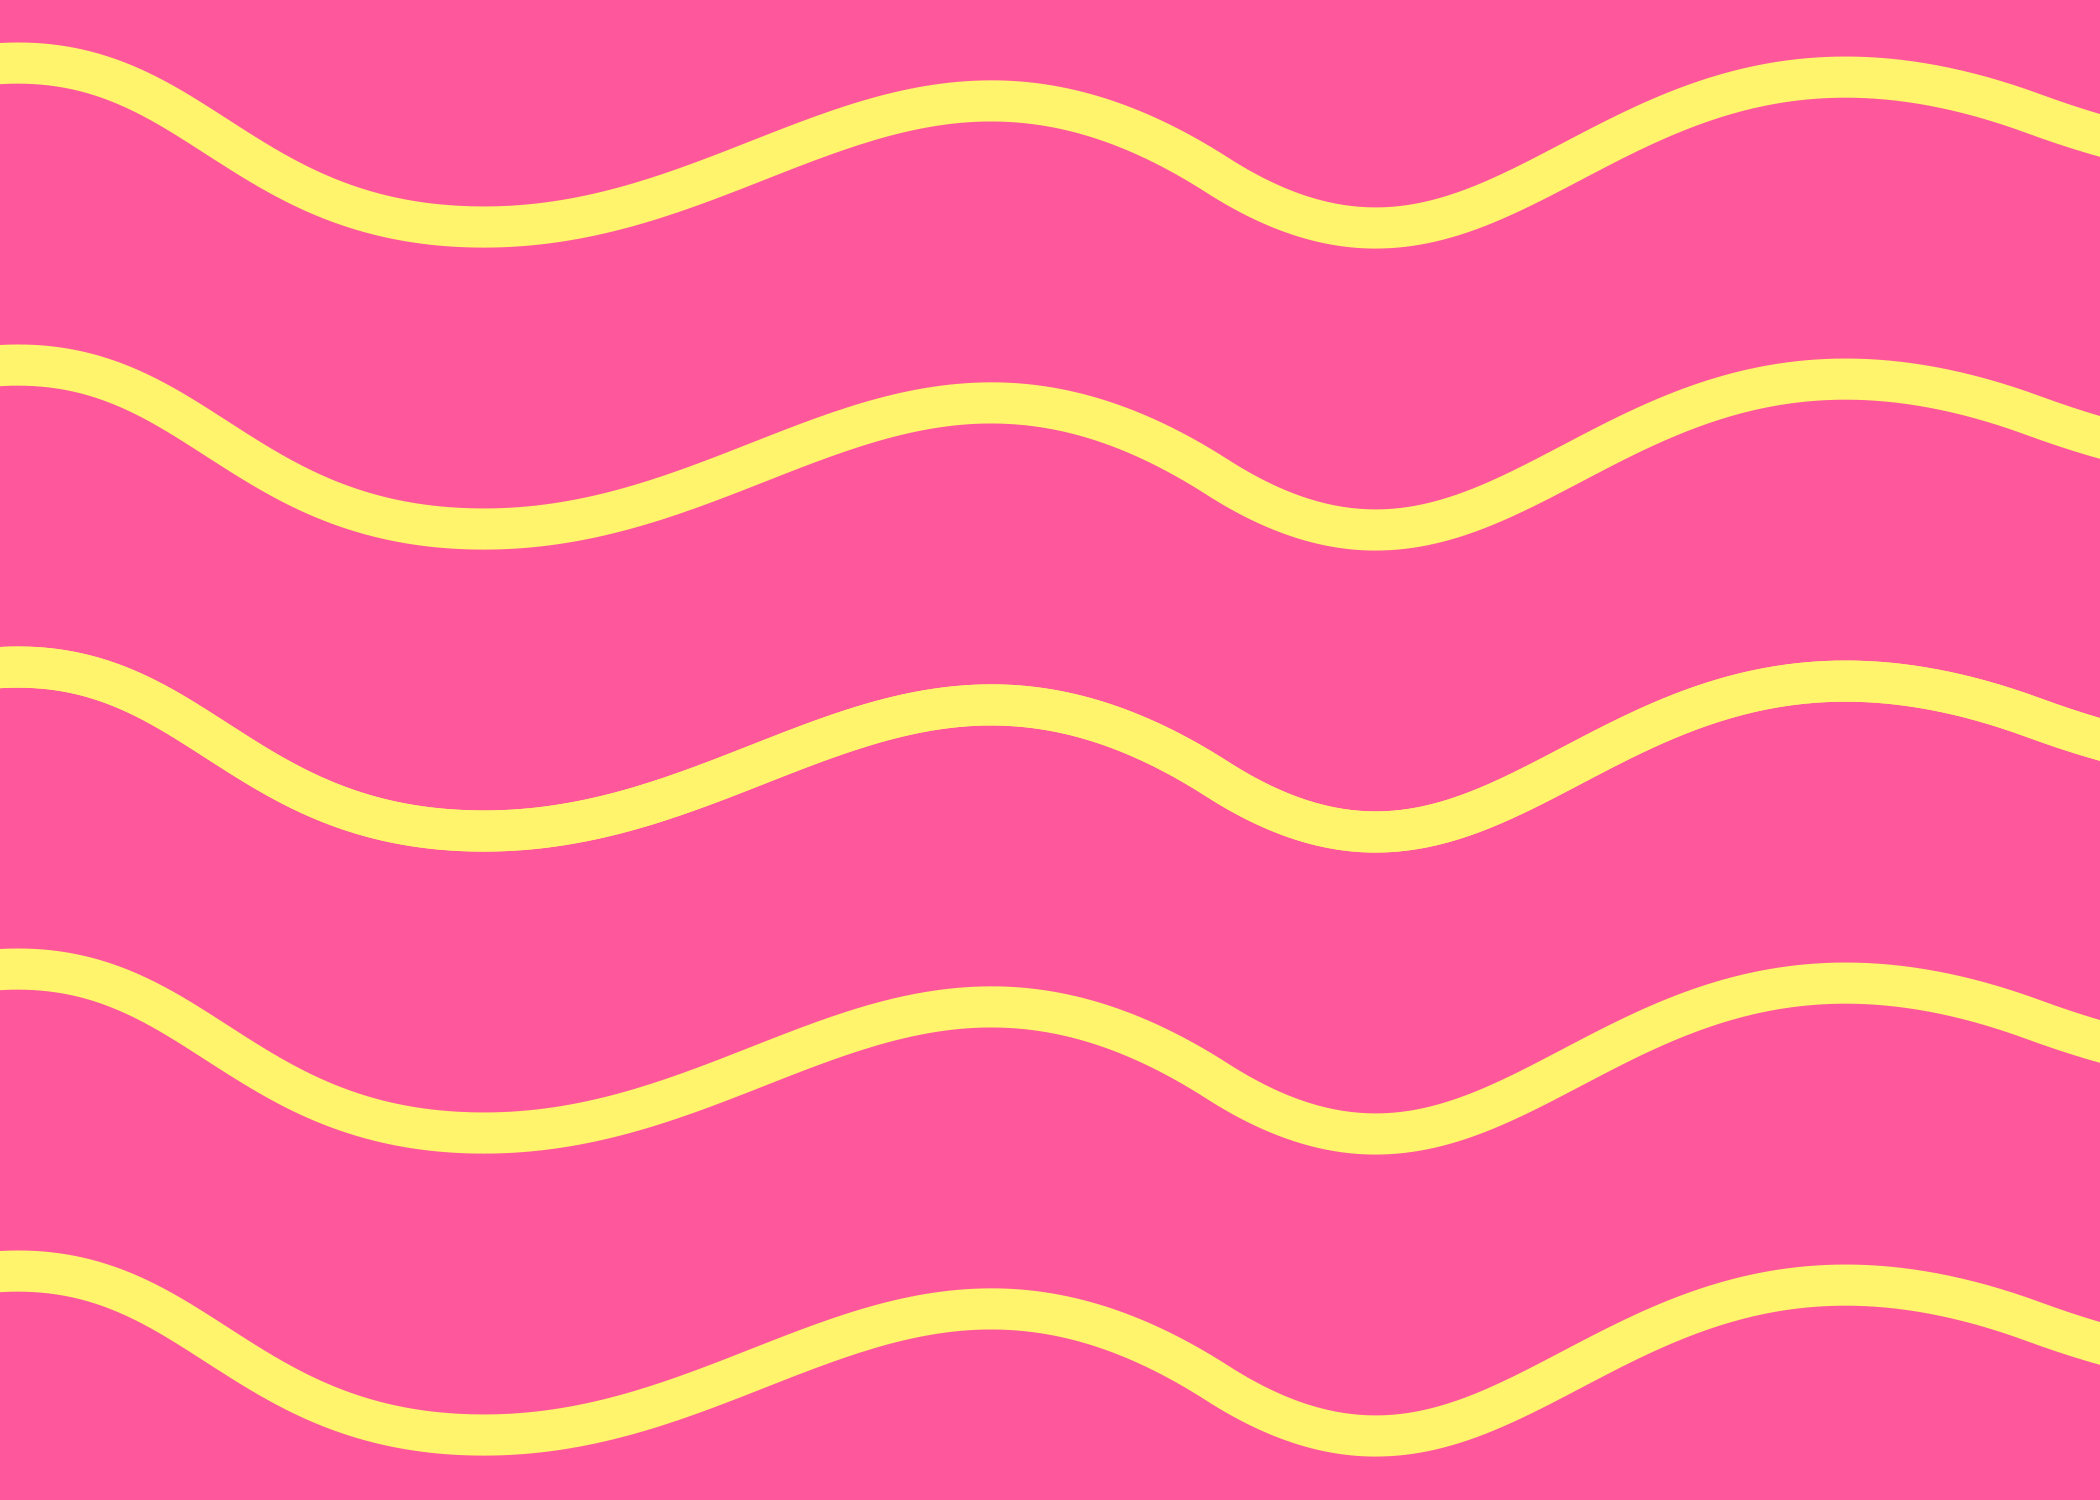
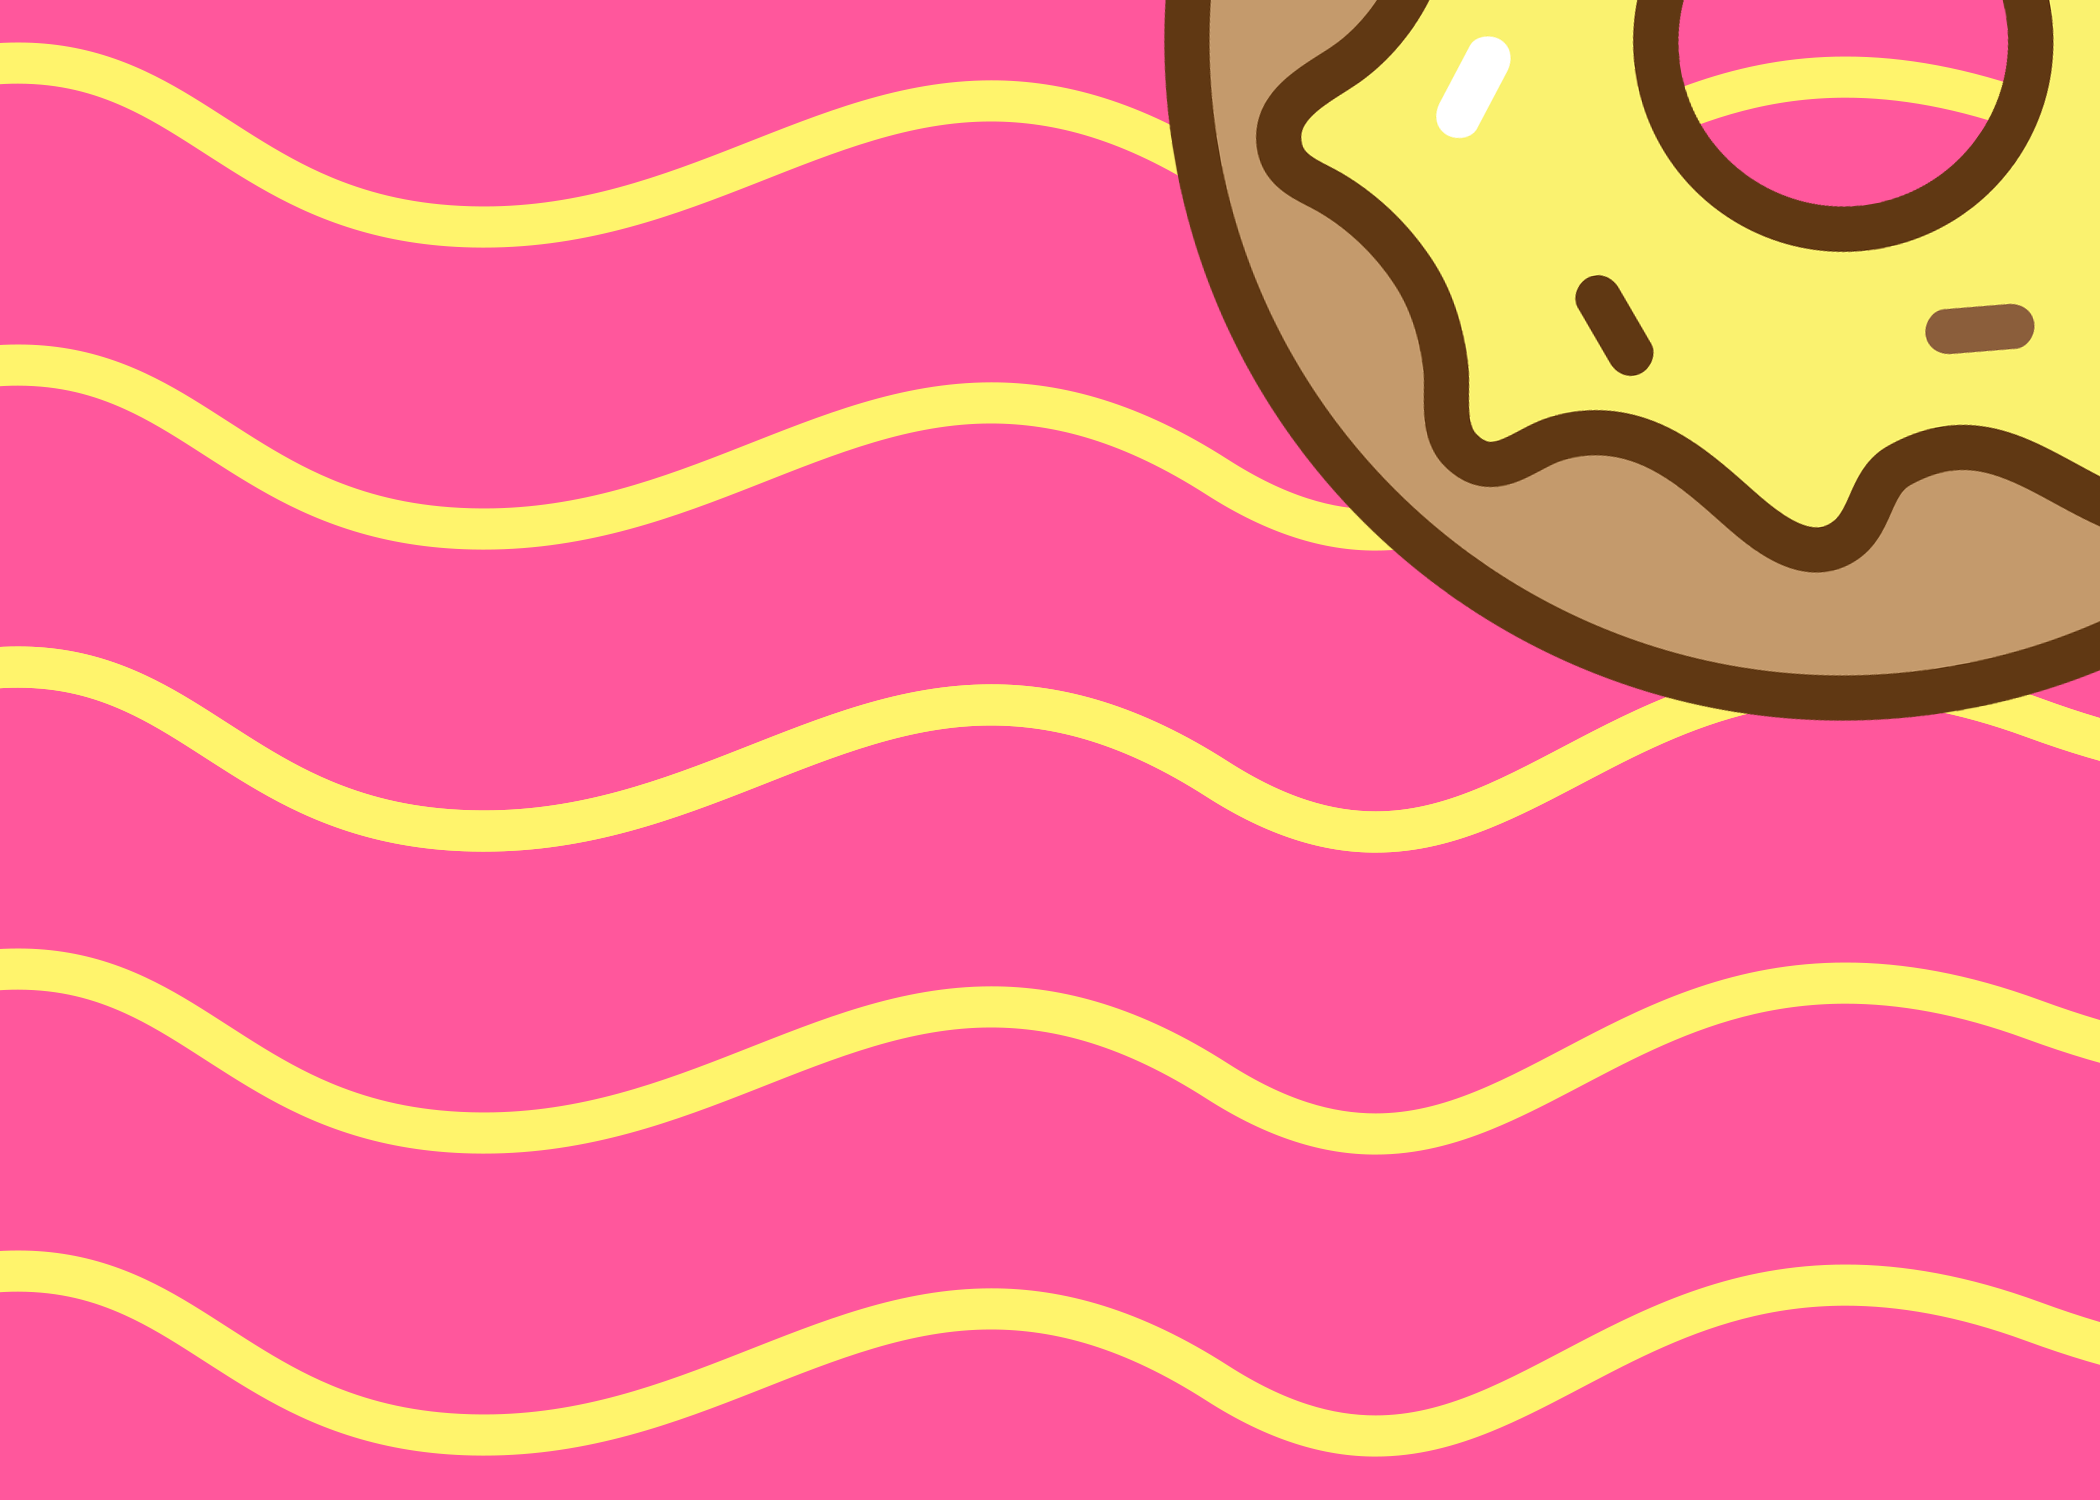
added some images

Changed region(s): [[0.5571, 0.0, 1.0, 0.4907]]

diff --git a/style.css b/style.css
@@ -1,85 +1,168 @@
-*{
+@font-face {
+    font-family: Somatic;
+    src: url('assets/Somatic-Rounded.otf');
+}
+
+@font-face {
+    font-family: Roboto-Black;
+    src: url('assets/Roboto-Black.ttf');
+}
+
+@font-face {
+    font-family: Roboto-Medium;
+    src: url('assets/Roboto-Medium.ttf');
+}
+
+* {
     padding: 0px;
     margin: 0px;
     list-style: none;
     font-family: Roboto-Medium;
 }
 
-a{
+body {
+    width: 100%;
+    height: 100%;
+    flex-grow: 1;
+}
+
+a {
     color: inherit;
     text-decoration: none;
 }
 
-@font-face { font-family: Somatic; src: url('assets/Somatic-Rounded.otf'); } 
-@font-face { font-family: Roboto-Black; src: url('assets/Roboto-Black.ttf'); } 
-@font-face { font-family: Roboto-Medium; src: url('assets/Roboto-Medium.ttf'); } 
-
-h1, h3{
+h1, h3 {
     font-family: Somatic;
 }
 
 
-.header{
+.header {
     padding: 5px;
     display: flex;
     align-items: center;
     max-height: 80px;
     height: 100%;
-    width: 100%;
-    background-color: #FFF46C;  
+    background-color: #FFF46C;
 }
 
-.header-nav{
+.header-nav {
     gap: 1rem;
     display: flex;
     flex-direction: row;
     justify-content: space-between;
 }
 
-.logo{
+.logo {
     height: 50px;
 }
 
-.tagline{
+.tagline {
     background-image: url("assets/lines.png");
     background-size: cover;
     background-color: #FF579C;
     height: 350px;
 }
 
-.tagline h1{
+.tagline h1 {
+    padding: 1rem;
     font-size: 78px;
     letter-spacing: 5px;
-    color:white;
+    color: white;
     /* 7px outer stroke on text */
     text-shadow: rgb(0, 0, 0) 7px 0px 0px, rgb(0, 0, 0) 6.92869px 0.996602px 0px, rgb(0, 0, 0) 6.71622px 1.9729px 0px, rgb(0, 0, 0) 6.36692px 2.909px 0px, rgb(0, 0, 0) 5.8879px 3.78584px 0px, rgb(0, 0, 0) 5.28893px 4.58555px 0px, rgb(0, 0, 0) 4.5822px 5.29183px 0px, rgb(0, 0, 0) 3.78212px 5.8903px 0px, rgb(0, 0, 0) 2.90498px 6.36876px 0px, rgb(0, 0, 0) 1.96865px 6.71747px 0px, rgb(0, 0, 0) 0.992221px 6.92932px 0px, rgb(0, 0, 0) -0.00442571px 7px 0px, rgb(0, 0, 0) -1.00098px 6.92806px 0px, rgb(0, 0, 0) -1.97715px 6.71498px 0px, rgb(0, 0, 0) -2.91303px 6.36508px 0px, rgb(0, 0, 0) -3.78956px 5.88551px 0px, rgb(0, 0, 0) -4.58889px 5.28603px 0px, rgb(0, 0, 0) -5.29472px 4.57885px 0px, rgb(0, 0, 0) -5.89269px 3.77839px 0px, rgb(0, 0, 0) -6.3706px 2.90095px 0px, rgb(0, 0, 0) -6.71871px 1.96441px 0px, rgb(0, 0, 0) -6.92995px 0.98784px 0px, rgb(0, 0, 0) -6.99999px -0.00885142px 0px, rgb(0, 0, 0) -6.92743px -1.00536px 0px, rgb(0, 0, 0) -6.71372px -1.98139px 0px, rgb(0, 0, 0) -6.36324px -2.91705px 0px, rgb(0, 0, 0) -5.88311px -3.79328px 0px, rgb(0, 0, 0) -5.28313px -4.59223px 0px, rgb(0, 0, 0) -4.57551px -5.29762px 0px, rgb(0, 0, 0) -3.77466px -5.89507px 0px, rgb(0, 0, 0) -2.89692px -6.37243px 0px, rgb(0, 0, 0) -1.96016px -6.71995px 0px, rgb(0, 0, 0) -0.983458px -6.93057px 0px, rgb(0, 0, 0) 0.0132771px -6.99999px 0px, rgb(0, 0, 0) 1.00974px -6.92679px 0px, rgb(0, 0, 0) 1.98564px -6.71247px 0px, rgb(0, 0, 0) 2.92107px -6.36139px 0px, rgb(0, 0, 0) 3.797px -5.88071px 0px, rgb(0, 0, 0) 4.59557px -5.28022px 0px, rgb(0, 0, 0) 5.30051px -4.57215px 0px, rgb(0, 0, 0) 5.89746px -3.77094px 0px, rgb(0, 0, 0) 6.37426px -2.89289px 0px, rgb(0, 0, 0) 6.72119px -1.95591px 0px, rgb(0, 0, 0) 6.93119px -0.979076px 0px;
 }
 
 
-
-.products{
-    background-color: #06D1FB;
-    height: 550px;
+.products {
+    display: flex;
+    align-items: center;
+    justify-content: center;
+    background-color: #9bedfd;
+    height: 1000px;
+    background-image: url("assets/Products.png");
+    background-position: center;
+    background-size: 95%;
+    background-repeat: no-repeat;
 }
 
-.products h2{
+.products h2 {
+    padding: 20px;
     font-family: Somatic;
     color: #FF579C;
-    font-size: 54px;
+    font-size: 70px;
     letter-spacing: 4px;
     /* 2px outer stroke on text */
     text-shadow: rgb(0, 0, 0) 2px 0px 0px, rgb(0, 0, 0) 1.75517px 0.958851px 0px, rgb(0, 0, 0) 1.0806px 1.68294px 0px, rgb(0, 0, 0) 0.141474px 1.99499px 0px, rgb(0, 0, 0) -0.832294px 1.81859px 0px, rgb(0, 0, 0) -1.60229px 1.19694px 0px, rgb(0, 0, 0) -1.97998px 0.28224px 0px, rgb(0, 0, 0) -1.87291px -0.701566px 0px, rgb(0, 0, 0) -1.30729px -1.5136px 0px, rgb(0, 0, 0) -0.421592px -1.95506px 0px, rgb(0, 0, 0) 0.567324px -1.91785px 0px, rgb(0, 0, 0) 1.41734px -1.41108px 0px, rgb(0, 0, 0) 1.92034px -0.558831px 0px;
 }
 
-.special{
-    background-color: #2BB673;
-    height: 450px;
+
+.special {
+    background-color: #57e29f;
+    background-image: url("assets/all3.png");
+    background-repeat: no-repeat;
+    background-size: 95%;
+    color: white;
+    display: flex;
+    flex-direction: column;
 }
 
-.sign-up-btn{
-    height:40px;
+.special-text {
+    margin-top: 15rem;
+    width: 80%;
+    margin-left: 8rem;
+    margin-bottom: 2rem;
 }
 
-.slideshow{
+.special-offer-big {
+    font-size: 6.5rem;
+}
+
+.special-offer-small {
+    font-size: 3rem;
+}
+
+.sign-up-btn {
+    background-color: #06D1FB;
+    border: none;
+    font-family: Somatic;
+    color: white;
+    font-size: 4.5rem;
+    letter-spacing: 3px;
+    width: 100%;
+    text-align: center;
+    padding: 1rem;
+}
+
+.slideshow {
     height: 400px;
+    background-repeat: no-repeat;
+    background-size: 120%;
+    animation: 20s change-background ease-in-out infinite;
+}
+
+@keyframes change-background {
+
+    0% {
+        background-image: url("/assets/slide1.jpg");
+        background-position: center;
+    }
+
+    25% {
+        background-image: url("/assets/slide2.jpg");
+        background-position: center;
+
+    }
+
+    50% {
+        background-image: url("/assets/slide3.jpg");
+    }
+
+    75% {
+        background-image: url("/assets/slide4.jpg");
+    }
+
+    100% {
+        background-image: url("/assets/slide5.jpg");
+    }
+
 }

diff --git a/index.html b/index.html
@@ -4,10 +4,20 @@
 <head>
     <meta charset="UTF-8">
     <style>
-        @font-face { font-family: Somatic; src: url('assets/Somatic-Rounded.otf'); } 
-        @font-face { font-family: Roboto-Black; src: url('assets/Roboto-Black.ttf'); } 
-        @font-face { font-family: Roboto-Medium; src: url('assets/Roboto-Medium.ttf'); } 
+        @font-face {
+            font-family: Somatic;
+            src: url('assets/Somatic-Rounded.otf');
+        }
 
+        @font-face {
+            font-family: Roboto-Black;
+            src: url('assets/Roboto-Black.ttf');
+        }
+
+        @font-face {
+            font-family: Roboto-Medium;
+            src: url('assets/Roboto-Medium.ttf');
+        }
     </style>
     <link rel="stylesheet" href="https://cdnjs.cloudflare.com/ajax/libs/font-awesome/6.1.2/css/all.min.css">
     <link rel="stylesheet" href="style.css">
@@ -19,7 +29,7 @@
 <body>
     <header class="header">
         <img class="logo" src="assets/bluelogo.png">
-        <div >
+        <div>
             <ol class="header-nav">
                 <li><a href="/about">About us</a></li>
                 <p>|</p>
@@ -33,15 +43,19 @@
         <h1>Say no to unhealthy snacks</h1>
     </div>
     <div class="products">
-        <h2>View full range!</h2>
+        <a href="/products">
+            <h2>View full range!</h2>
+        </a>
     </div>
     <div class="special">
-        <h2 class="special-offer-big">
-            20% OFF!
-        </h2>
-        <h2 class="special-offer-small">
-            on first 3-pack monthly subscription
-        </h2>
+        <div class="special-text">
+            <h2 class="special-offer-big">
+                20% OFF!
+            </h2>
+            <h2 class="special-offer-small">
+                on first 3-pack monthly subscription
+            </h2>
+        </div>
         <button class="sign-up-btn">
             Sign up!
         </button>
